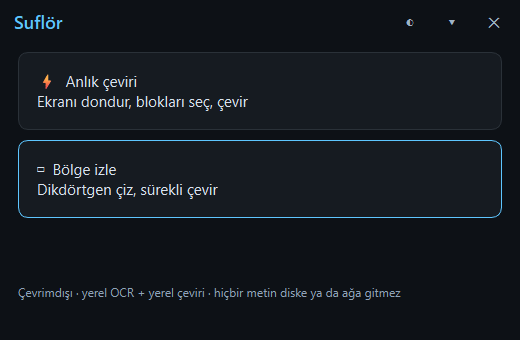
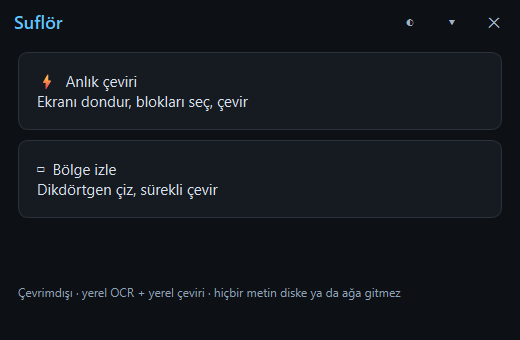
T-012 KABUL: UI kabuğu (üç düğme · tepsi · kenar sekmesi) — 3 tur, gerçek ekran kapısı 18/18, 2117 test
Şef koşumu (kilit açılınca): real_check v3 TEMİZ 18/18 — gerçek OS tıkı sekmeye/panele → ön plan sahnede
kalıyor (pozitif kontrol k5b: bayraksız pencere ön planı alıyor, sef_dogrulama/k5b_pozitif_kontrol_sef.txt),
açılma 176 ms / kapanma 487 ms, yukarı sürükleme sınıra kilitli + panel açılmadı, WM_CLOSE → çıkış 1 + (F,F,F),
paint 0.19 ms. decision.md: 12 şef hatası, implementer'a giden 2 ömür sınıfı; açık kalemler (kısayollar,
Snapshot modu, monitörler arası taşıma, topmost oyun). Board: dalga 3.

diff --git a/.agents/tasks/T-012/decision.md b/.agents/tasks/T-012/decision.md
@@ -1,0 +1,66 @@
+---
+task: T-012
+role: sef
+round: 3
+decision: kabul
+---
+
+# T-012 — UI kabuğu (üç düğme · tepsi · kenar sekmesi): KABUL
+
+Üç tur. Görev kapandı. **Projenin ilk ürün arayüzü**; kullanıcının 11 Eylül isteği ("sağ üstte üç düğme: kapat, arka planda çalıştır, kenara al — yarım daire, imleçle iki çeviri seçeneği") birebir.
+
+## Ne teslim edildi
+
+`src/ui/` — `geometri.py` (saf: kapalı/açık dikdörtgen, `y_sinirla`, disk içi testi, `Kenar` sağ/sol), `kenar_sekmesi.py` (`KenarSekmesi`: yarım daire + panel; yoklama tabanlı, imleç enjekte; sürüklemede açılmaz; mod tıkı önce paneli kapatır, imleç diskten çıkana kadar yeniden açılmaz; yalnız görünürken yoklar; `kapandi`), `kabuk.py` (`AnaPencere`: üç durumlu makine `gorunur (T,F,F) · tepsi (F,F,T) · kenar (F,T,T)`, `closeEvent == kapat`, `kapat` idempotent + `cikis_istendi` tam bir kez, tepsi yoksa kenara düşer, süreç başına bir kez balon, ömür: `destroyed → sekme/menü deleteLater`; `Tepsi`), `uygulama.py` + `__main__.py` (`python -m src.ui`, `setQuitOnLastWindowClosed(False)` sahibi). **220 test**, kapsam %99.6, mypy --strict modül+test, cp1254, mutant 44/44. Kör tester A (durum makinesi + sınır + ömür) **378** + B (kötü kullanım + istek uyumu + test kalitesi) **142 koşum**. `demo/kabuk.py` ürün kabuğunu kullanır; Bölge izle gerçek T-005 seçim katmanına bağlı.
+
+**Gerçek ekran (`real_check` v3, şef koşumu 18/18):** sabitler ürün değerleri · üçlü tablo · sekme sağ kenara bitişik `(2534,670,26,52)`, dikey orta · bayraklar · **gerçek OS tıkı:** sekmeye ve panel düğmesine tık → ön plan sahnede kalıyor (pozitif kontrol: bayraksız pencere ön planı alıyor — `k5b_pozitif_kontrol_sef.txt`) · açılma 176 ms, kapanma 487 ms · yukarı sürükleme üst sınıra kilitleniyor, panel açılmıyor · sağ tık → pencere · WM_CLOSE → `cikis_istendi` 1, üçlü (F,F,F) · paint 0.19/0.19 ms · 2. monitör dpr 1.25 fiziksel +1 px (rapor).
+
+## Tur kaydı
+
+| Tur | Ne oldu |
+|---|---|
+| ölçüm | U0–U6 prototip (`demo/kabuk.py`): tepsi var, bitişik/orta, odak çalınmıyor, 129–153 / 476–478 ms |
+| paket | v1 → **tek** KRT: 3 yüksek (Alt+F4 → zombi süreç; sürüklerken panel açılıyor; odak ölçüsü iki tarafta yanlış — ayrışan tek ölçü gerçek OS tıkı) + 9 orta → v2 |
+| 1 | Implementer: 190 test, kapı 18/18 (tek ihlalin sebebi Windows bildirim balonu — ölçtü). **A ret** (sekme lambda bağlantılarıyla hiç toplanmıyor → zombi yarım daire) · **B onay** (yüksek bulgusu şefin demosunda: Esc uygulamayı kapatıyordu) → v3 |
+| 2 | Ömür (bağlı yöntem), `kapandi`, mod tıkı mandalı, bir kez balon, üst sınırlar. **A onay · B onay**; iki orta: `deleteLater`+tutulan referans zombisi, panel açıkken `close` sonrası bayat geometri |
+| 3 (dar) | `destroyed → deleteLater`, `showEvent → konumlan`, balona tık → göster. Şef tester sondalarını koştu: temiz. Kapı 18/18 (kilit açılınca) |
+
+## Kalite kanıtı
+
+**İmplementer'a giden kod hatası: 2 sınıf, ikisi de ömür** (Y-A1 lambda; O-B5 deleteLater) — ikisi de ölçülmemiş "Python sahipliği" varsayımından; geri kalan bulguların tamamı paket/kapı/demo kaynaklı. Implementer üç turda üç ölçülü teşhis getirdi (balon 6 s; `close` sonrası gecikmiş geometri olayı; `weakref` sarmalayıcı `__dict__`) — hepsi haklı.
+
+Şefin ölçülmüş hataları (12):
+
+| # | Hata | Yakalayan |
+|---|---|---|
+| 1 | K1'de `close()`/Alt+F4 yoktu → zombi süreç; giriş noktası sahipsizdi | KRT |
+| 2 | K4 ölçüsü sürükleme jestine hiç uğramıyordu (panel açılıyordu) | KRT |
+| 3 | Odak ölçüsü offscreen'de doğru kodda düşüyor, gerçek ekranda yanlış kodda geçiyordu | KRT |
+| 4 | Kapı referansları uygulamadan türetiliyordu (sabitler); K4 üst sınırı CI yükünde titriyordu | KRT |
+| 5 | İstek maddeleri sessizce düşmüştü (monitörler arası taşıma, kısayollar, kenar seçimi, sağ tık keşfedilebilirliği) | KRT |
+| 6 | Paketteki 193/469 ms ham dosyada yoktu | KRT |
+| 7 | Ömür cümlesi ölçülmeden yazıldı; kapı/ölçü bu sınıfa uğramıyordu | Tester-A |
+| 8 | Demo `SecimKatmani` Esc → `quit()` ürün kabuğunu kapatıyordu | Tester-B |
+| 9 | Tur-1 [5c] düzeltmesi (balonu kaldır) kullanıcı ipucunu yok etti; doğru olan kapının balon alanından uzak ölçmesiydi | Tester-B |
+| 10 | [3] pozitif kontrolü KRT'ye bırakıldı, şef geç koştu | Tester-B |
+| 11 | Kapı [8] ikinci monitör referansı yanlış formüldü (Qt'den) → Win32 `GetMonitorInfo` | şef |
+| 12 | Seçim sırasında sekme paneli seçim katmanının üstüne çıkıyordu (demo) | Tester-B |
+
+## Açık kalemler
+
+| Kalem | Not | Sahip |
+|---|---|---|
+| **Global kısayollar** (`Ctrl+Alt+T/R`, tepside de çalışır) | paket dışı; `RegisterHotKey` + çakışma | yeni görev (HotkeyService) |
+| **Anlık çeviri (Snapshot) modu** | kabuk sinyali hazır, alıcı yok | yeni görev |
+| Yatay / monitörler arası sekme taşıma | farklı dpr monitörler arasında 512 px mantıksal boşluk ölçüldü — T-003 gerekir | v2 |
+| Topmost / exclusive fullscreen oyun üstünde sekme görünmez | `[ÖLÇÜLMÜYOR]`; tasarım 5.6 "borderless'a geç" uyarısı | belge |
+| Görev çubuğu sağda/solda → sekme fiziksel kenara bitişik değil (`availableGeometry` kararı) | `[ÖLÇÜLMÜYOR]` | belge |
+| Monitör çıkarılması (`QScreen` silinir) | `[ÖLÇÜLMÜYOR]`; birincile taşıma | v2 |
+| dpr ≠ 1 monitörde fiziksel +1 px taşma | rapor; tık birincile gitmiyor mu — ölçülmedi | kayıt |
+| T-011 K5 süre testi yük altında titriyor (`test_k5_sure_8000_*` 60–65 ms > 60) | üç ajan gördü; eşik koşula bağlansın | T-011 bakım |
+| Demo: Esc `_basla` sıfırlamıyor (D-B10), `IzlemePenceresi.close()` zamanlayıcı sürüyor (D-B11) | şef | demo |
+| `yoklama_ms` küçükken CPU; balon bildirimler kapalıyken sessiz | `[ÖLÇÜLMÜYOR]` | belge |
+
+## Karar
+
+**T-012 KABUL.** İki tester onayı (tur 2) + tur 3 düzeltmeleri şef tarafından tester sondalarıyla doğrulandı, altı kabul komutu exit 0, gerçek ekran kapısı 18/18 (gerçek OS girdisi), tam takım **2117** test yeşil, `python demo/kabuk.py` ve `python -m src.ui` çalışıyor.
